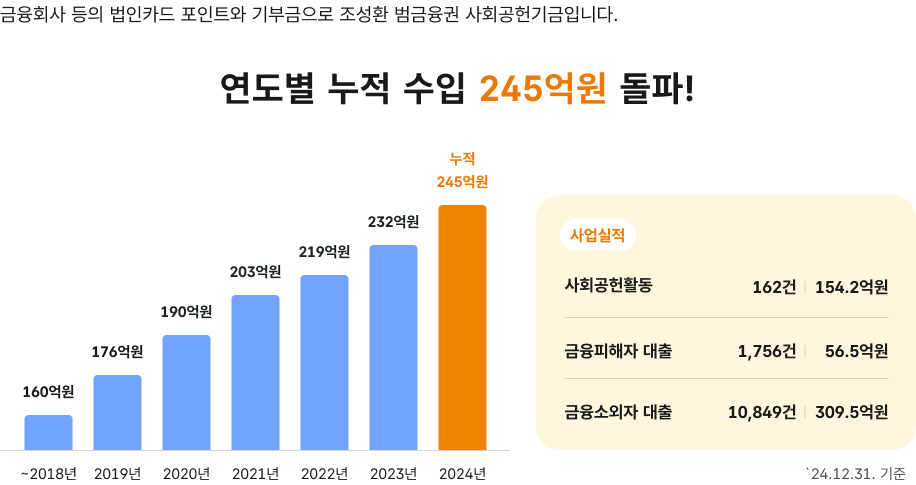
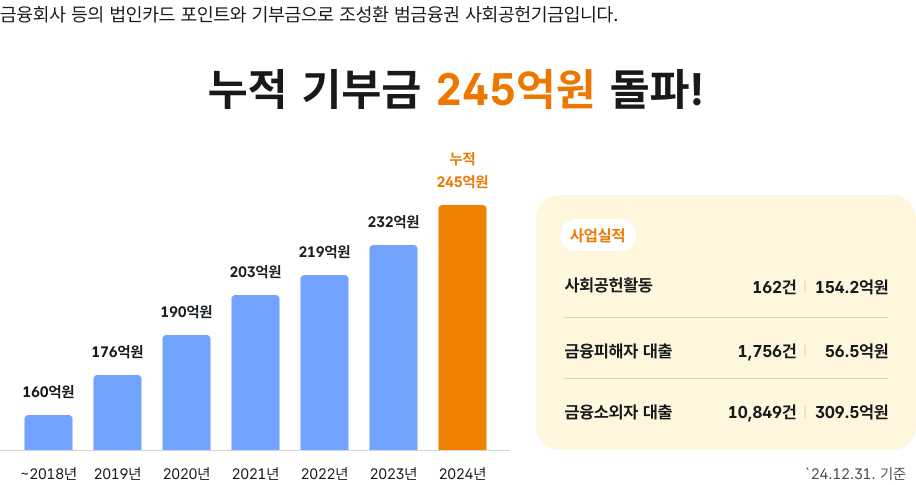
수정

Changed region(s): [[0.214, 0.1237, 0.7642, 0.2474]]

diff --git a/html/기부현황_기부금현황.html b/html/기부현황_기부금현황.html
@@ -180,7 +180,7 @@
                                         <div class="accordion-body">
                                             <!-- accordion contents -->
                                             <div class="g-img">
-                                                <img src="/type/www/images/img/기부금현황내용01.png?ver=5.1" alt=" ">
+                                                <img src="/type/www/images/img/기부금현황내용01.png?ver=5.2" alt=" ">
                                             </div>
                                             <!-- //accordion contents -->
                                         </div>
@@ -199,7 +199,7 @@
                                             <!-- accordion contents -->
                                             <div class="g-conts-area">
                                                 <div class="g-img">
-                                                    <img src="/type/www/images/img/새희망그래프.png?ver=5.1" alt=" ">
+                                                    <img src="/type/www/images/img/새희망그래프.png?ver=5.2" alt=" ">
                                                 </div>
                                                 <h4 class="con-tit bullet mt40">사회공헌활동 추진내역</h4>
                                                 <div class="g-img mt20">

diff --git a/html/사업소개_성실상환자지원.html b/html/사업소개_성실상환자지원.html
@@ -256,6 +256,7 @@
                                     <div class="related-links-content">
                                         <span class="label-text">재원</span>
                                         <span class="links-text">신용카드사회공헌재단</span>
+                                        <a href="/html/신용상승지원_크레딧점프.html" class="btn-primary">신청안내<img src="/type/www/images/ic/open-new-window.svg?ver=5.1" alt="새 창 열림 아이콘" class="ml8"></a>
                                     </div>
                                 </div>
                             </div>
